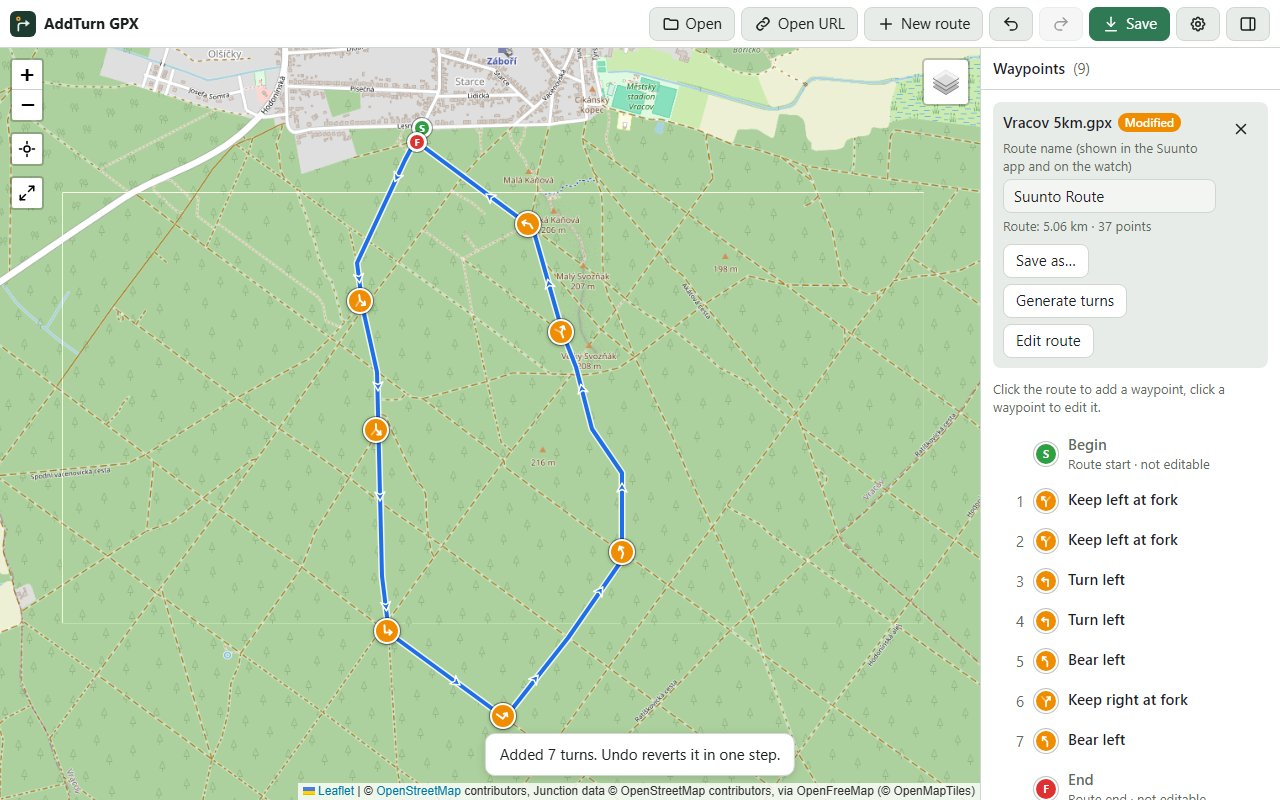
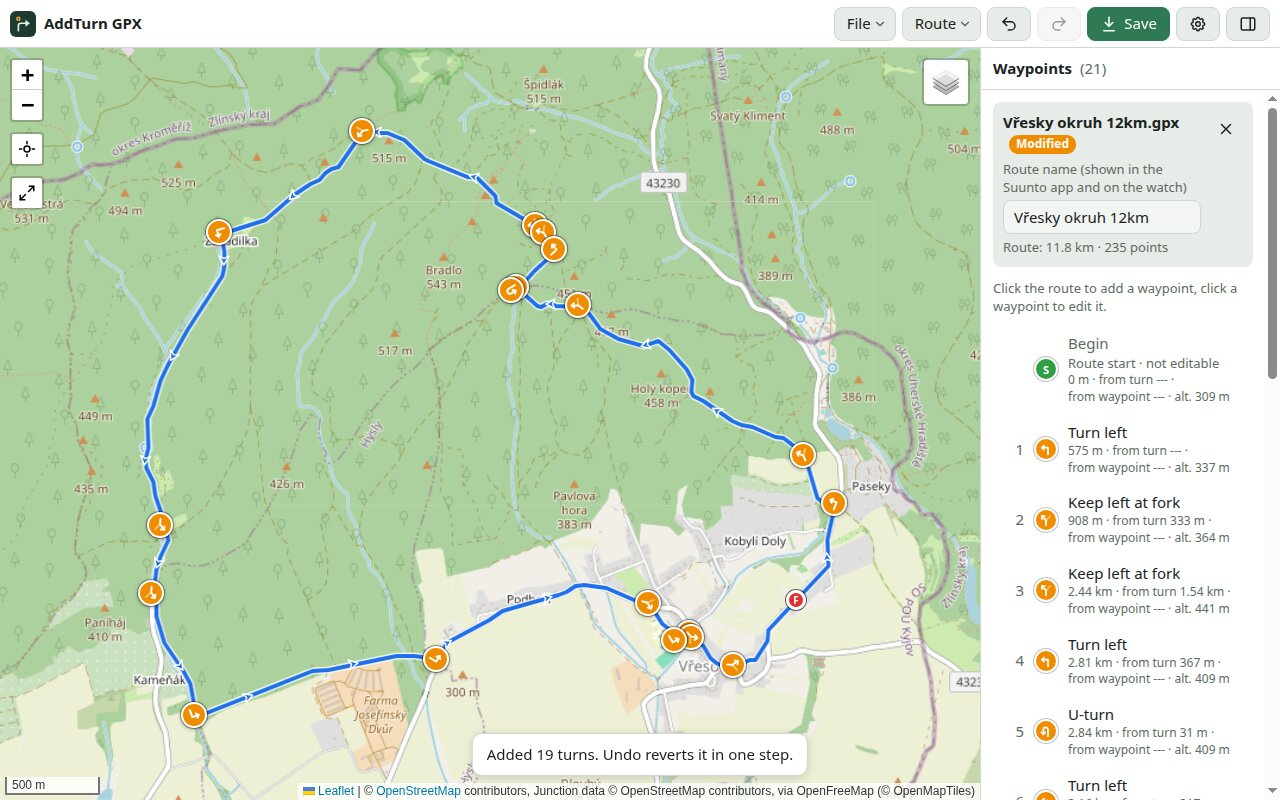
README: new screenshots of real routes (Vřesky) with turns from the current generator (v109)

diff --git a/docs/dev/PROGRESS.md b/docs/dev/PROGRESS.md
@@ -815,3 +815,7 @@ potvrzení od uživatele → další cyklus.
 - Testy: `tiles.json` +1 (UTMB 3,9 km: J1 odjezd d místo b, žádný pokyn, Turn left jen na J2, Debug turns; bez pravidla selže), krok cyklu 75 upraven (3 pokyny místo 4). Všechny sady **341/341**. README EN/CZ. Cache v109.
 - Ke kontrole uživatelem: Praha přichycená 6903/6909 a 2695/2699 (dva pokyny 4–6 m od sebe při přejezdu na souběžnou cestu) a UTMB 173,71 km.
 
+
+### README – nové snímky (2026-11-21)
+- Požadavek uživatele: snímky v README ukazovaly Vracov 5km se 7 odbočkami z dřívější verze (a tlačítka Open URL / New route z doby před menu). Generátor v109 dá na Vracov 5km (přichycená verze v `samples/`) jen 3 odbočky.
+- Nové snímky `docs/img/` (headless Chrome, živé dlaždice OSM i data křižovatek z OpenFreeMap, v109): `overview.jpg` a `mobile.jpg` – Vřesky kopec 8km (8 odboček, „already up to date“), `generator.jpg` – Vřesky okruh 12km po smazání odboček a Generate turns („Added 19 turns“), `editor.jpg` – Turn right na Vřesky kopec 8km (po Generate turns, aby návrh v editoru bral tvar křižovatky). Pod hlavním obrázkem popisek EN/CZ, že jde o skutečné trasy u Vřesek. Aplikace beze změny, cache se nemění.

diff --git a/README.md b/README.md
@@ -15,6 +15,8 @@ Suunto watches show an instruction (turn left, keep right at a fork, …) and th
 
 ![AddTurn GPX with a route and generated turn instructions](docs/img/overview.jpg)
 
+*The screenshots show real routes near Vřesky (Czech Republic) with turns made by **Generate turns** in the current version of the app.*
+
 ## Recommended workflow (tested on a watch)
 
 **Suunto app → shared link → downloaded GPX file → AddTurn GPX → import into the Suunto app**

diff --git a/README-CZ.md b/README-CZ.md
@@ -15,6 +15,8 @@ Hodinky Suunto při navigaci po trase ukazují pokyn (odboč vlevo, na rozcestí
 
 ![AddTurn GPX s trasou a vygenerovanými pokyny](docs/img/overview.jpg)
 
+*Snímky ukazují skutečné trasy u Vřesek s odbočkami, které vytvořilo **Generate turns** v aktuální verzi aplikace.*
+
 ## Doporučený postup (ověřeno na hodinkách)
 
 **Aplikace Suunto → sdílený odkaz → stažený soubor GPX → AddTurn GPX → import do aplikace Suunto**
